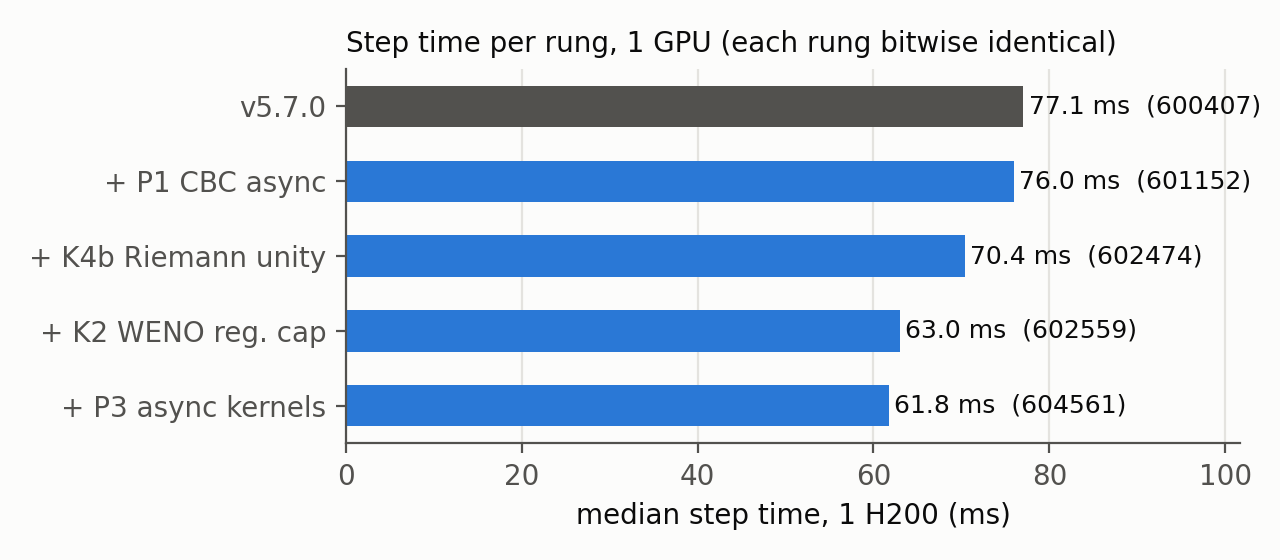
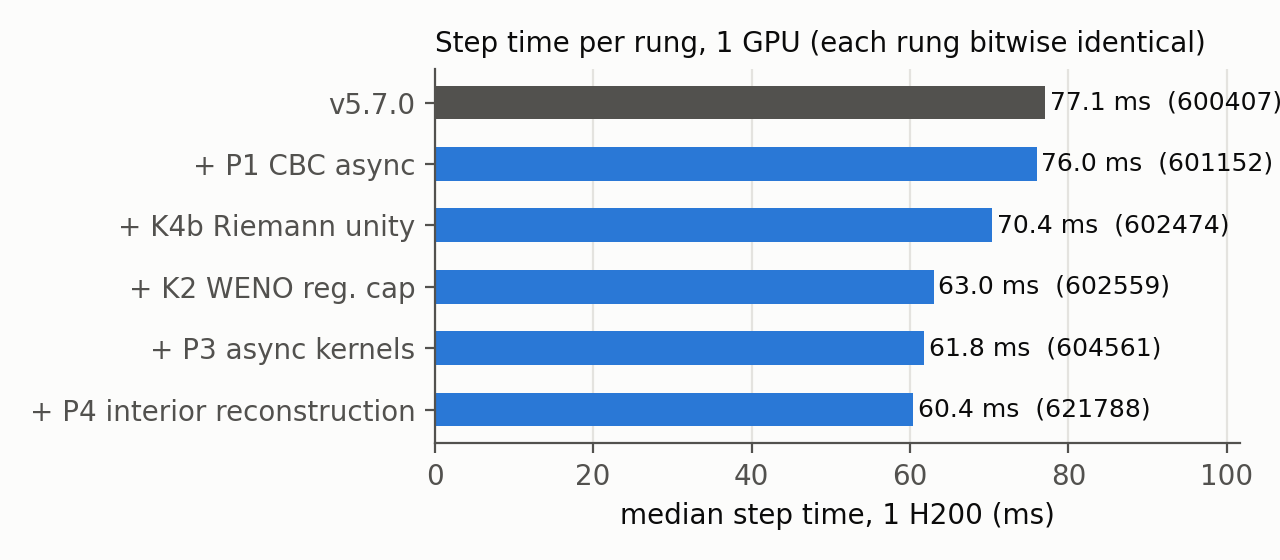
Report and docs: P4 in the final series (1.27x / 1.35x / 2.23x at 1/4/8 GPUs, chained same-node ratios), full-suite result, figures with v5.7.0/P3/P4 bars, reproduce.sh applies 0001-0006, canonical branch p4; AGENT_LOG #15

diff --git a/tools/figs.py b/tools/figs.py
@@ -57,7 +57,7 @@ def finish(ax, path):
 # 1. Ladder at 1 GPU
 ladder = [("v5.7.0", "base/official_1g", "600407"), ("+ P1 CBC async", "p1/cbc_async_1g", "601152"),
           ("+ K4b Riemann unity", "k4/unity_1g", "602474"), ("+ K2 WENO reg. cap", "k2/cap128_1g", "602559"),
-          ("+ P3 async kernels", "p3/ab_1g/b1", "604561")]
+          ("+ P3 async kernels", "p3/ab_1g/b1", "604561"), ("+ P4 interior reconstruction", "p4/ab_1g/b1", "621788")]
 vals = [step(p) for _, p, _ in ladder]
 fig, ax = plt.subplots(figsize=(6.4, 2.8))
 y = range(len(ladder))[::-1]
@@ -77,7 +77,7 @@ fig, ax = plt.subplots(figsize=(6.4, 2.6))
 y = range(len(keys))[::-1]
 h = 0.36
 ax.barh([v + h / 2 for v in y], [before[k] for k in keys], height=h, color=INK2, label="v5.7.0 (600146)")
-ax.barh([v - h / 2 for v in y], [after[k] for k in keys], height=h, color=BLUE, label="final (606033)")
+ax.barh([v - h / 2 for v in y], [after[k] for k in keys], height=h, color=BLUE, label="P3 (606033)")
 for v, k in zip(y, keys):
     ax.text(before[k] + 0.2, v + h / 2, f"{before[k]:.1f}", va="center", fontsize=8, color=INK2)
     ax.text(after[k] + 0.2, v - h / 2, f"{after[k]:.1f}", va="center", fontsize=8, color=INK)
@@ -88,21 +88,26 @@ ax.set_title(f"Kernel time by role: {sum(before.values()):.1f} → {sum(after.va
 ax.legend(frameon=False, fontsize=8, loc="lower right")
 finish(ax, f"{OUT}/kernels_1g.png")
 
-# 3. Step time at 1/4/8 GPUs, same node per pair
-pairs = [("1 GPU", "final/s1g/base", "final/s1g/final", "606017"),
-         ("4 GPUs\n(both rdma_mpi)", "final/s4g/base_rdma", "final/s4g/final_rdma", "606018"),
-         ("8 GPUs\n(v5.7.0 default\nvs final rdma_mpi)", "final/s8g/base_host", "final/s8g/final_rdma", "605963/606019")]
-fig, ax = plt.subplots(figsize=(6.4, 3.0))
-y = range(len(pairs))[::-1]
-for v, (name, a, b, job) in zip(y, pairs):
-    sa, sb = step(a), step(b)
-    ax.barh(v + h / 2, sa, height=h, color=INK2, label="v5.7.0" if v == len(pairs) - 1 else None)
-    ax.barh(v - h / 2, sb, height=h, color=BLUE, label="final" if v == len(pairs) - 1 else None)
-    ax.text(sa + 0.8, v + h / 2, f"{sa:.1f} ms", va="center", fontsize=8, color=INK2)
-    ax.text(sb + 0.8, v - h / 2, f"{sb:.1f} ms  ({sa / sb:.2f}×, {job})", va="center", fontsize=8, color=INK)
-ax.set_yticks(list(y), [p[0] for p in pairs])
+# 3. Step time at 1/4/8 GPUs: v5.7.0 vs P3 on one node, P3 vs final (P4) on another; speedup = product of the ratios
+sets = [("1 GPU", "final/s1g/base", "final/s1g/final", "p4/ab_1g/a1", "p4/ab_1g/b1"),
+        ("4 GPUs\n(all rdma_mpi)", "final/s4g/base_rdma", "final/s4g/final_rdma", "p4/ab_4g_rdma/a1", "p4/ab_4g_rdma/b1"),
+        ("8 GPUs\n(v5.7.0 default,\nthen rdma_mpi)", "final/s8g/base_host", "final/s8g/final_rdma", "p4/ab_8g_rdma/a1",
+         "p4/ab_8g_rdma/b1")]
+fig, ax = plt.subplots(figsize=(6.4, 3.6))
+y = range(len(sets))[::-1]
+h3 = 0.26
+for v, (name, base, p3, p3b, fin) in zip(y, sets):
+    sb, s3, sf = step(base), step(p3), step(fin)
+    first = v == len(sets) - 1
+    ax.barh(v + h3, sb, height=h3, color=INK2, label="v5.7.0" if first else None)
+    ax.barh(v, s3, height=h3, color=ORANGE, label="P3" if first else None)
+    ax.barh(v - h3, sf, height=h3, color=BLUE, label="final (P4)" if first else None)
+    ax.text(sb + 0.8, v + h3, f"{sb:.1f} ms", va="center", fontsize=8, color=INK2)
+    ax.text(s3 + 0.8, v, f"{s3:.1f} ms", va="center", fontsize=8, color=INK2)
+    ax.text(sf + 0.8, v - h3, f"{sf:.1f} ms  ({sb / s3 * step(p3b) / sf:.2f}×)", va="center", fontsize=8, color=INK)
+ax.set_yticks(list(y), [s[0] for s in sets])
 ax.set_xlim(0, 100)
 ax.set_xlabel("median step time over all ranks (ms)")
-ax.set_title("Same-node comparison, 201³ strong scaling", loc="left", fontsize=10)
+ax.set_title("Same-node comparisons, 201³ strong scaling", loc="left", fontsize=10)
 ax.legend(frameon=False, fontsize=8, loc="lower right")
 finish(ax, f"{OUT}/scaling.png")

diff --git a/report.md b/report.md
@@ -2,32 +2,34 @@
 
 Coding-Adv-HW-1. Application: **MFC v5.7.0** (`0b3d56c`), the SC26 SCC application, on nano4 (H200).
 Every number in this report cites a Slurm job and a path under `results/`. Changes to MFC are the patch series
-`patches/opt/0001…0005` (branch `p3` on nano4). The per-rung detail, including all rejected variants, is in
+`patches/opt/0001…0006` (branch `p4` on nano4). The per-rung detail, including all rejected variants, is in
 `docs/ladder.md`, and agent mistakes are in `AGENT_LOG.md`.
 
 ## 1. Result
 
-Same node per row, outputs bitwise identical to unmodified v5.7.0. Step = median NVTX step time (steps 2–30) of the
-slowest rank, from one NVTX-profiled rep after the timed ones; grind = MFC's ns / grid point / equation / RHS, median
-of the 5 timed reps.
+Outputs bitwise identical to unmodified v5.7.0. Step = median NVTX step time (steps 2–30) of the slowest rank, from
+one NVTX-profiled rep after the timed ones; grind = MFC's ns / grid point / equation / RHS, median of the timed reps.
+Every comparison is made on one node: v5.7.0 vs P3 (patches 0001–0005) in one job, P3 vs final (P4, + 0006) in a
+second same-node A/B. The speedup is the product of the two same-node ratios. P3 reproduced across the two jobs within
+0.7 % (61.88 / 61.90, 17.72 / 17.65, 10.22 / 10.15 ms).
 
-| GPUs | v5.7.0 step | Final step | Speedup | v5.7.0 grind | Final grind | Jobs |
-|---|---|---|---|---|---|---|
-| 1 | 76.74 ms | **61.88 ms** | **1.24×** | 0.3973 | 0.3201 | 606017 |
-| 4 (both `rdma_mpi`) | 23.10 ms | **17.72 ms** | **1.30×** | 0.1184 | 0.0913 | 606018 |
-| 8 (v5.7.0 default vs final) | 21.94 ms | **10.22 ms** | **2.15×** | 0.1129 | 0.0527 | 605963 / 606019 |
+| GPUs | v5.7.0 step | P3 step | Final step | Speedup | v5.7.0 grind | Final grind | Jobs |
+|---|---|---|---|---|---|---|---|
+| 1 | 76.74 ms | 61.88 ms | **60.38 ms** | **1.27×** | 0.3973 | 0.3123 | 606017; 621788 |
+| 4 (all `rdma_mpi`) | 23.10 ms | 17.72 ms | **17.03 ms** | **1.35×** | 0.1184 | 0.0876 | 606018; 622305 |
+| 8 (v5.7.0 default, then `rdma_mpi`) | 21.94 ms | 10.22 ms | **9.75 ms** | **2.23×** | 0.1129 | 0.0502 | 605963 / 606019; 622306 |
 
 ![Same-node step times](docs/fig/scaling.png)
 
-Strong-scaling efficiency of the final build (step time): 87 % at 4 GPUs and 76 % at 8 GPUs. v5.7.0 at its default
+Strong-scaling efficiency of the final build (step time): 89 % at 4 GPUs and 77 % at 8 GPUs. v5.7.0 at its default
 settings reaches 44 % at 8 GPUs.
 
-The 4-GPU row isolates the source changes. The 1-GPU final run was also launched with the start-up fix (T0.4,
-`nicbind.sh`), which changes wall time, not step time. The 8-GPU row compares v5.7.0 at its defaults with the final
+The 4-GPU row isolates the source changes. The 1-GPU P3 run was also launched with the start-up fix (T0.4,
+`nicbind.sh`), which changes wall time, not step time; the P3-vs-P4 A/B runs used default UCX in both arms. The 8-GPU row compares v5.7.0 at its defaults with the final
 configuration (`rdma_mpi=T`); the like-for-like 8-GPU v5.7.0 `rdma_mpi` arm of the plan was not run (an agent bug,
 AGENT_LOG #14, used the budget). As a cross-job reference only, v5.7.0 with `rdma_mpi` measured 16.5 ms per step at
-8 GPUs in the profiling phase (nsys, 10 steps; `docs/profiling-baseline.md`). The 4- and 8-GPU final runs used default
-UCX, not `nicbind.sh`. Nothing changes the physics, the numerics, the grid, the step count or FP64.
+8 GPUs in the profiling phase (nsys, 10 steps; `docs/profiling-baseline.md`). The 4- and 8-GPU runs used default UCX, not
+`nicbind.sh`. Nothing changes the physics, the numerics, the grid, the step count or FP64.
 
 ## 2. Rules we held ourselves to
 - SC26 spirit: same equations, schemes, grid, step count and precision. No loosened tolerances, no changed outputs.
@@ -71,6 +73,7 @@ Ladder on 1 GPU (rungs measured in sequence; each bitwise):
 | K4b Riemann unity build (13-module slice; the final 10-module slice: 70.00 ms, 602531) | 70.42 ms | 0.3632 | 602474 |
 | K2 WENO register cap | 62.99 ms | 0.3255 | 602559 |
 | P3 async per-stage kernels (same-node A/B 62.87 → 61.79) | 61.79 ms | 0.3201 | 604561 |
+| P4 transverse-interior reconstruction (same-node A/B 61.90 → 60.38) | 60.38 ms | 0.3123 | 621788 |
 
 ![Ladder at 1 GPU](docs/fig/ladder_1g.png)
 
@@ -105,6 +108,21 @@ registers to 206 / 192 (`results/k2/kcheck_vector_length.txt`), so it could not 
   compilers and the OpenMP path generate exactly the old code.
 - Same-node A/B: 4 GPUs `rdma_mpi` 18.81 → 17.71 ms (−5.8 %, every rank); 1 GPU −1.7 %.
 
+**P4 — reconstruct only what the Riemann solver reads** (`0006`, `m_rhs.fpp` + `m_weno.fpp`, +29/−14). After P3,
+WENO5 and its input pack were 45 % of kernel time (ncu 606033). Each sweep reconstructed the full transverse ghost range
+(4 cells on each side), but the only reader of the reconstructed states is the Riemann solver, and it reads them at
+transverse-interior cells only.
+
+- An audit of every consumer in `simulation/*.fpp` found no other reader. The viscous, capillary and
+  viscous-derivative reconstructions have their own ranges and are untouched.
+- Change: the transverse ranges become the interior (`idwint`), and the pack copies only what the WENO, monotonicity
+  and THINC kernels read (their range ± `weno_polyn` along the sweep). Every value that is read is computed by the same
+  code from the same inputs.
+- The skipped share grows as boxes shrink: 7.5 % of each sweep at 201³ per GPU, 14 % at 101³. This is why the gain
+  grows with GPU count.
+- Same-node A/B against P3: 1 GPU 61.90 → 60.38 ms (**−2.5 %**, 621788, 2 rounds); 4 GPUs 17.65 → 17.03 ms
+  (**−3.5 %**, 622305); 8 GPUs 10.15 → 9.75 ms (**−4.0 %**, 622306). Bitwise in all 8 runs.
+
 **`rdma_mpi=T`** (MFC input parameter, disclosed): halos go GPU→GPU over NVLink (UCX `cuda_ipc`, 292 GB/s measured)
 instead of through host memory. Bitwise; −27 % per step at 4 GPUs (sc26 build, 602770 host-staged vs 604560
 `rdma_mpi`, different nodes).
@@ -131,8 +149,10 @@ configuration together with `rdma_mpi`.
 
 ## 7. Correctness
 - Every benchmark run: final state bitwise identical to pinned v5.7.0 (`verify.json` per run).
-- **Full `./mfc.sh test` on the final series** (all 752 tests that `./mfc.sh test -l` lists, 8 shards, jobs 606006
-  and 606008–606014; generic build plus the 6 chemistry variants; 713 ran, MFC skips the rest for this build): **690 pass, 23 fail, 0 new failures** (`verify.py --test-summary`: PASS).
+- **Full `./mfc.sh test` on the final series (P4)** (all 752 tests that `./mfc.sh test -l` lists, 8 shards, jobs
+  622349–622356; generic build plus the 6 chemistry variants; 713 ran, MFC skips the rest for this build): **690 pass,
+  23 fail, 0 new failures** (`verify.py --test-summary`: PASS). The P3 series gave the same result with the same 23
+  failures (606006, 606008–606014).
 - All 23 failures fail **identically on unmodified v5.7.0** in this environment: each was re-run on the pinned build
   (606331 for the 14 found by the full suite; earlier rechecks for the other 9). The 14 were re-run on the final
   build too (606332), with identical errors. They are 17 `model_eqns=3` / viscous IBM cases (errors from just above
@@ -147,10 +167,11 @@ configuration together with `rdma_mpi`.
   this also removed a wrongly "known" failure).
 
 ## 8. Why it runs at this speed now
-Per-kernel ncu, same settings before and after (600146 vs 606033; clocks locked at 1.48 GHz, so durations are
-inflated but ratios hold; 4 steps, kernels 140–210):
+Per-kernel ncu, same settings before and after (600146 vs 606033, the P3 series; clocks locked at 1.48 GHz, so
+durations are inflated but ratios hold; 4 steps, kernels 140–210). P4 was not profiled with ncu: it changes the
+amount of WENO work, not how a kernel runs.
 
-| Kernel (per call) | v5.7.0 | Final | Why |
+| Kernel (per call) | v5.7.0 | P3 | Why |
 |---|---|---|---|
 | WENO5 reconstruction | 3.39–3.49 ms; 188–196 regs; 12 % warps active; FP64 pipe 31 % | **2.34–2.56 ms**; 128 regs; 24 %; FP64 pipe 42–46 % | K2: occupancy doubled; the spills (3.4–4.8·10⁷ local ops) hit L1 |
 | HLLC | 2.13–2.48 ms; FP64 pipe 9–10 % | **1.57–1.62 ms**; FP64 pipe 13 % | K4b: helpers inlined; local-load instructions in SASS 178 → 76 |
@@ -160,13 +181,15 @@ inflated but ratios hold; 4 steps, kernels 140–210):
 ![Kernel time by role](docs/fig/kernels_1g.png)
 
 WENO5 is still latency-bound below the FP64 roof, and the copy-like kernels reach a third of HBM bandwidth because the
-SMs are busy with index arithmetic, not memory. Both are the next single-GPU targets.
+SMs are busy with index arithmetic, not memory. Both are the next single-GPU targets. P4 then removed the WENO
+work at transverse ghost cells (§5).
 
 - After P3 the host gaps inside the reconstruction and Riemann ranges are 0.002–0.012 ms per stage (4-GPU trace
   604667, rank 0), so on the compute side kernel time is the step time. Kernel time (sc26 profile 602705) is in WENO5 (29 %), HLLC (21 %), the
   WENO input pack (10 %; removed by NTHU's open PR #2092, not ours to claim) and bandwidth-bound copies (40 %).
-- 8 GPUs: 10.2 ms per step, 76 % strong-scaling efficiency; the halo exchange takes 0.36–0.72 ms per stage depending on the
-  rank (606019), as 6 sequential, blocking `MPI_Sendrecv`s with no compute overlap.
+- 8 GPUs (P3): 10.2 ms per step, 76 % strong-scaling efficiency; the halo exchange takes 0.36–0.72 ms per stage
+  depending on the rank (606019), as 6 sequential, blocking `MPI_Sendrecv`s with no compute overlap. P4: 9.75 ms, 77 %
+  (622306).
 - Wall time of a 30-step run is mostly fixed cost, which no per-step optimization touches: at 4 GPUs 15.9 s of wall
   for 0.6 s of stepping (606018), of which `MPI_Init` + `MPI_Finalize` are ≈7.2 s (bare timer 602722); at 8 GPUs
   19.6 s of wall for 0.3 s of stepping (606019). `nicbind.sh` removes 3.8 s at 4 GPUs (606032); at 8 GPUs it is
@@ -174,16 +197,17 @@ SMs are busy with index arithmetic, not memory. Both are the next single-GPU tar
 
 ## 9. What we would do next
 1. Overlap the halo exchange with interior compute (now possible: P3 removed the host syncs that would have eaten
-   the overlap).
+   the overlap). After P4 the reconstruction no longer reads corner ghosts on the inviscid path, so the exchange could post all faces at
+   once and wait per sweep direction.
 2. Fuse or skip the bandwidth-bound copies (40 % of kernel time), e.g. extend the #2087 pattern.
-3. Submit P1/K4b/P3 upstream as three small PRs (K2 is a flag; K4b a CMake change).
+3. Submit P1/K4b/P3/P4 upstream as small PRs (K2 is a flag; K4b a CMake change).
 
 ## 10. Reproduce
 On nano4, from a clone of this repository mirrored to `/work/u1131128/coding-adv1`:
 ```
-bash harness/reproduce.sh build    # v5.7.0 + patches/opt/0001-0005, case-opt + generic builds
+bash harness/reproduce.sh build    # v5.7.0 + patches/opt/0001-0006, case-opt + generic builds
 bash harness/reproduce.sh run      # the final 1/4/8-GPU same-node sets (harness/specs/final_*g.tsv)
 bash harness/reproduce.sh verify   # bitwise gate + median step per run
 ```
-The patch series applied to v5.7.0 gives a tree identical to the one measured here (checked: empty diff against
-branch `p3`). Multi-GPU runs with `rdma_mpi` add `WRAP=$ROOT/harness/nicbind.sh` for the start-up fix (T0.4).
+The patch series applied to v5.7.0 gives a tree identical to the one measured here (checked for 0001–0005: empty
+diff against branch `p3`; 0006 is `git format-patch p3..p4`). Multi-GPU runs with `rdma_mpi` add `WRAP=$ROOT/harness/nicbind.sh` for the start-up fix (T0.4).

diff --git a/docs/optimizations.md b/docs/optimizations.md
@@ -1,15 +1,17 @@
 # MFC on H200: optimizations so far
 
 Case: `examples/3D_performance_test` (201³, 5-equation 2-fluid, WENO5 + HLLC, RK3, 30 steps), case-optimized build,
-NVHPC 26.3, 1× H200 unless noted. Code: branch `p3` on nano4 (`mfc-p3` = `sc26` + P3), exported as `patches/opt/0001…0005`.
+NVHPC 26.3, 1× H200 unless noted. Code: branch `p4` on nano4 (`mfc-p4` = `p3` + P4), exported as `patches/opt/0001…0006`.
 Every number below cites a job; details and rejected variants are in `docs/ladder.md`.
 
-## Final, same node per row (the report's headline; `report.md` §1)
-| GPUs | v5.7.0 step | Final step | Speedup | Jobs |
-|---|---|---|---|---|
-| 1 | 76.74 ms | 61.88 ms | 1.24× | 606017 |
-| 4, both `rdma_mpi` | 23.10 ms | 17.72 ms | 1.30× | 606018 |
-| 8, v5.7.0 default vs final `rdma_mpi` | 21.94 ms | 10.22 ms | 2.15× | 605963/606019 |
+## Final (the report's headline; `report.md` §1)
+v5.7.0 vs P3 on one node, P3 vs P4 (final) on another; speedup = product of the two same-node ratios.
+
+| GPUs | v5.7.0 step | P3 step | Final step | Speedup | Jobs |
+|---|---|---|---|---|---|
+| 1 | 76.74 ms | 61.88 ms | 60.38 ms | 1.27× | 606017; 621788 |
+| 4, all `rdma_mpi` | 23.10 ms | 17.72 ms | 17.03 ms | 1.35× | 606018; 622305 |
+| 8, v5.7.0 default, then `rdma_mpi` | 21.94 ms | 10.22 ms | 9.75 ms | 2.23× | 605963/606019; 622306 |
 
 ## Result (1 GPU, rung by rung)
 | Rung | Step, median | Grind (ns/gp/eq/rhs) | Wall | Final state | Job |
@@ -20,8 +22,9 @@ Every number below cites a job; details and rejected variants are in `docs/ladde
 | + K2 WENO register cap 128 | **62.99 ms** | **0.3255** | 6.9 s | bitwise | 602559 |
 | = clean series `sc26` (canonical) | 62.91 ms | 0.3248 | 7.13 s | bitwise | 602728 |
 | + T0.4 UCX on the GPU's own HCA (env, 1 GPU) | 63.00 ms | 0.3249 | **6.62 s** | bitwise | 602727 |
-| + P3 async per-stage kernels (same-node A/B vs sc26: 62.87 → 61.79 ms) | **61.79 ms** | **0.3200** | — | bitwise | 604561 |
-| **total** | **−19.8 % (1.25×)** | **−19.6 %** | **−18 %** | | |
+| + P3 async per-stage kernels (same-node A/B vs sc26: 62.87 → 61.79 ms) | 61.79 ms | 0.3200 | — | bitwise | 604561 |
+| + P4 transverse-interior reconstruction (same-node A/B vs P3: 61.90 → 60.38 ms) | **60.38 ms** | **0.3123** | — | bitwise | 621788 |
+| **total (rungs in sequence, different nodes)** | **−21.6 % (1.28×)** | **−21.6 %** | | | |
 
 The official MFC table lists 0.38 ns for H100 SXM. That number uses a different metric (v4.9.3, `s_compute_rhs` only,
 `cpu_time`, ghost cells counted), see `baseline/README.md`. Same-metric comparisons are within this table only.
@@ -85,7 +88,8 @@ The official MFC table lists 0.38 ns for H100 SXM. That number uses a different 
   monotonicity and THINC kernels read. The viscous, capillary and viscous-derivative reconstructions keep their ranges.
 - *Effect (same node, A/B vs P3, `rdma_mpi` on multi-GPU).* 1 GPU −2.5 % (621788), 4 GPUs −3.5 % (622305), 8 GPUs
   −4.0 % (622306). Skipped work grows as boxes shrink: 7.5 % of each sweep at 201³ per GPU, 14 % at 101³.
-- *Correctness.* Bitwise in all 8 runs; full `./mfc.sh test` pending (622349–622356).
+- *Correctness.* Bitwise in all 8 runs; full `./mfc.sh test` 690 pass / 23 fail, the same 23 as P3 and v5.7.0
+  (622349–622356).
 
 **Rejected, with evidence.**
 - NVHPC 25.9: no gain, not bitwise.
@@ -128,12 +132,13 @@ The official MFC table lists 0.38 ns for H100 SXM. That number uses a different 
 | v5.7.0 baseline | host-staged | — (2 reps, no per-step data) | 0.1534 / 0.1626 | 600173 |
 | sc26 | host-staged | 25.72 ms | 0.1377 | 602770 |
 | sc26 | `rdma_mpi=T` | 18.81 ms | 0.0969 | 604560 a1 |
-| sc26 + P3 | `rdma_mpi=T` | **17.71 ms** | **0.0914** | 604560 b1 |
+| sc26 + P3 | `rdma_mpi=T` | 17.71 ms | 0.0914 | 604560 b1 |
+| + P4 | `rdma_mpi=T` | **17.03 ms** | **0.0876** | 622305 b1 (A/B vs P3 17.65 ms) |
 
 - `rdma_mpi=T` is an MFC input parameter: halos go GPU to GPU over NVLink instead of through host memory. Same
   numerics, bitwise output, −27 % per step at 4 GPUs. It is our multi-GPU configuration (disclosed).
-- Strong-scaling efficiency 1 → 4 GPUs with P3 and `rdma_mpi`: 61.8 / (4 × 17.7) = **87 %**
-  (host-staged sc26: 61 %).
+- Strong-scaling efficiency 1 → 4 GPUs with P3 and `rdma_mpi`: 61.8 / (4 × 17.7) = 87 %; with P4
+  60.4 / (4 × 17.0) = **89 %** (host-staged sc26: 61 %).
 - In a 30-step run, MPI start-up and finalize (~7.5 s) dominate the 12 s wall at 4 GPUs.
 - A 4-GPU trace on node hgpn012 (604667) showed one GPU uniformly 20 % slower in every kernel. The A/B runs on hgpn020
   show balanced ranks (RHS 5.35–5.37 ms) at equal clocks, so this is a node anomaly, not load imbalance.

diff --git a/docs/ladder.md b/docs/ladder.md
@@ -17,7 +17,7 @@ One row per experiment, newest last. Baseline: `results/base/official_1g` (job 6
 | 8b | T0.4 at 4 GPUs | Same node A/B: default wall 13.07 s, step 25.72 ms (602770) vs per-rank local HCA wall **9.92 s** but step **26.89 ms (+4.5 %)** on every rank (602771); one HCA for all (602725) same +1.2 ms/step. Default UCX stripes large messages over 2 rails; one HCA per rank loses that. Break-even ≈ 2700 steps → **rejected for multi-GPU** (a production run is longer). `ob1`/vader and UCX `sm` cannot reach peer ranks in these jobs (602704/602726; `sm` works with `UCX_POSIX_USE_PROC_LINK=n`, no gain) | 602770/602771 | — | bitwise ✓ | no |
 | 9 | P2+P3 | **Per-stage kernels and scalar updates async on NVHPC.** Trace (604253, 4 GPUs rdma): ~1 ms/stage GPU idle from ~100 kernel launches + ~45 scalar `GPU_UPDATE`s, each host-synchronized (Riemann alone: 10 updates per direction). NVHPC check (604388): after `acc_set_cuda_stream(acc_async_noval, <sync stream>)` async and sync work share one stream (0 ordering errors in 16.8 M), async scalar updates are staged at enqueue (0/20000 wrong), update+kernel 15.3 → 4.05 µs. Change: alias at start-up, `GPU_ASYNC` (= `'async'` on NVHPC, `None` elsewhere) on 115 hot directives, one `GPU_WAIT` before rdma `MPI_SENDRECV` (`patches/opt/0005-*.patch`, 10 files, +170/−153) | same-node A/B 604560 (4g rdma, hgpn020), 604561 (1g ×2, hgpn012) | 4g rdma step **18.81 → 17.71 ms (−5.8 %)**, grind 0.0969 → 0.0914; 1g step 62.87/62.90 → 61.79/61.87 ms (−1.7 %), grind 0.3249 → 0.3200 | bitwise ✓ (all 6 runs); tests: 33 WENO variants + 8 multi-rank MPI 41/41 (604600), all 19 chemistry 19/19 (604755), 15 % sample 100/106 where the 6 = 5 chemistry cases whose builds did not exist (now pass) + 1843DA80 (pre-existing) (604601) | yes |
 | 8c | T0.4 with `rdma_mpi` | Same binding, final build, 4 GPUs, halos over NVLink (`cuda_ipc`) instead of the HCAs: step 17.65 → 17.69 ms (+0.2 %, noise), grind 0.0913 → 0.0912, **wall 13.03 → 9.28 s (−29 %)** | 606032 `results/t0/rdma_nic_4g` (hgpn010) | wall −29 % | bitwise ✓ | yes, with `rdma_mpi` |
-| 10 | P4 | **Reconstruct only the cells the Riemann solver reads.** Each sweep reconstructed the full transverse ghost range (`idwbuff`), but the only reader of `qL/qR_rs*_vf` is the Riemann solver, at transverse-interior cells (`irx/iry/irz`). Transverse ranges → `idwint`; `s_pack_weno_input_arr` packs only the WENO/monotonicity/THINC read set (range ± `weno_polyn` along the sweep). Cells per sweep −7.5 % at 201³/GPU, −14 % at 101³. Consumer audit (all `simulation/*.fpp`): no other reader; viscous, capillary and viscous-derivative reconstructions keep their own ranges (`patches/opt/0006-*.patch`, 2 files, +29/−14) | same-node A/B vs P3: 621788 (1g ×2, hgpn015), 622305 (4g rdma, hgpn024), 622306 (8g rdma, hgpn027) | 1g step **61.90 → 60.38 ms (−2.5 %)**, grind 0.3201 → 0.3122; 4g **17.65 → 17.03 ms (−3.5 %)**, grind 0.0912 → 0.0876; 8g **10.15 → 9.75 ms (−4.0 %)**, grind 0.0523 → 0.0502 | bitwise ✓ (all 8 runs); full `./mfc.sh test`: pending (622349–622356) | pending tests |
+| 10 | P4 | **Reconstruct only the cells the Riemann solver reads.** Each sweep reconstructed the full transverse ghost range (`idwbuff`), but the only reader of `qL/qR_rs*_vf` is the Riemann solver, at transverse-interior cells (`irx/iry/irz`). Transverse ranges → `idwint`; `s_pack_weno_input_arr` packs only the WENO/monotonicity/THINC read set (range ± `weno_polyn` along the sweep). Cells per sweep −7.5 % at 201³/GPU, −14 % at 101³. Consumer audit (all `simulation/*.fpp`): no other reader; viscous, capillary and viscous-derivative reconstructions keep their own ranges (`patches/opt/0006-*.patch`, 2 files, +29/−14) | same-node A/B vs P3: 621788 (1g ×2, hgpn015), 622305 (4g rdma, hgpn024), 622306 (8g rdma, hgpn027) | 1g step **61.90 → 60.38 ms (−2.5 %)**, grind 0.3201 → 0.3122; 4g **17.65 → 17.03 ms (−3.5 %)**, grind 0.0912 → 0.0876; 8g **10.15 → 9.75 ms (−4.0 %)**, grind 0.0523 → 0.0502 | bitwise ✓ (all 8 runs); full `./mfc.sh test` 690 pass / 23 fail, identical failure set to P3 and v5.7.0 (622349–622356) | yes |
 
 ### K4 diagnosis (HLLC, 1.88–2.19 ms/call vs 1.46 in v4.9.3)
 - ncu (job 600146): 18.75 % occupancy (160 regs), long-scoreboard stalls; **local-memory traffic exceeds global**

diff --git a/AGENT_LOG.md b/AGENT_LOG.md
@@ -38,3 +38,11 @@
   stdin and swallowed the remaining rows, so each final set ran only its first (baseline) row. Cost: ~41 GPU-min, of
   which the baseline rows are still valid. Fix: run the body with `< /dev/null`. Lesson: never let MPI launchers
   inherit a loop's stdin.
+
+## 15. A chained speedup quoted from rounded inputs (2026-10-27)
+- Before computing it from the raw `steps.tsv` files, the agent told the user the 8-GPU speedup after P4 would be
+  2.24×. Products of rounded medians drift: the exact value is 21.939 / 10.222 × 10.150 / 9.747 = 2.2350, so 2.23×.
+  Caught when the figure script (which reads raw files) disagreed with the report table. Lesson: derived numbers come
+  from the raw files in one script, never from rounded table entries.
+- Budget for P4 (all user-approved): 1-GPU A/B 5 GPU-min (621788), 4/8-GPU A/B 77 GPU-min (622305/6, estimate 70),
+  full suite 138 GPU-min (622349–622356, estimate 124).

diff --git a/CLAUDE.md b/CLAUDE.md
@@ -7,7 +7,7 @@ Plan: `PLAN.md`. Private notes: `JOURNEY.md` (gitignored). Agent mistakes: `AGEN
 ## App
 **MFC** v5.7.0 — https://github.com/MFlowCode/MFC, commit `0b3d56c8e1c9a3aa8d112681b72c87ab69fe5f13`.
 - `reference/MFC` — pinned submodule (read-only, for source reading/research).
-- nano4 `$ROOT/mfc` — working clone where builds happen; optimizations go on branch `p3` (worktree `mfc-p3` = `sc26` + P3; one clean commit per optimization; experiments on side branches) and are
+- nano4 `$ROOT/mfc` — working clone where builds happen; optimizations go on branch `p4` (worktree `mfc-p4` = `p3` + P4, `mfc-p3` = `sc26` + P3; one clean commit per optimization; experiments on side branches) and are
   exported as patches into `patches/` here (so the history of every source change lives in this repo).
 
 ## SC26 rules we follow (spirit of scientific computing)
